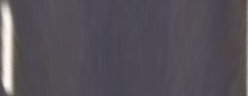
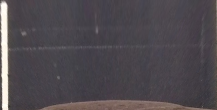
adjust roi

diff --git a/lanefinder/transform.py b/lanefinder/transform.py
@@ -10,8 +10,8 @@ import utils
 log = logging.getLogger("lanefinder.transform")
 
 _src_top_mar = 535
-_scr_bottom_mar = 170
-_dst_top_mar = 400
+_scr_bottom_mar = 120 # 170
+_dst_top_mar = 453
 _dst_bottom_mar = 500
 WARP_SRC_PTS = [(_src_top_mar, 460),
                 (1280 - _src_top_mar, 460),
@@ -21,8 +21,8 @@ WARP_DST_PTS = [(_dst_top_mar, 0),
                 (1280 - _dst_top_mar, 0),
                 (1280 - _dst_bottom_mar, 720),
                 (_dst_bottom_mar, 720)]
-YM_PER_PX = 3 / 86
-XM_PER_PX = 3.7 / 243
+YM_PER_PX = 3 / 110
+XM_PER_PX = 3.7 / 217
 
 
 def grad_thresholding(img, thresh_abs_x=None, thresh_abs_y=None, thresh_mag=None, thresh_dir=None, kernel_size=3):
